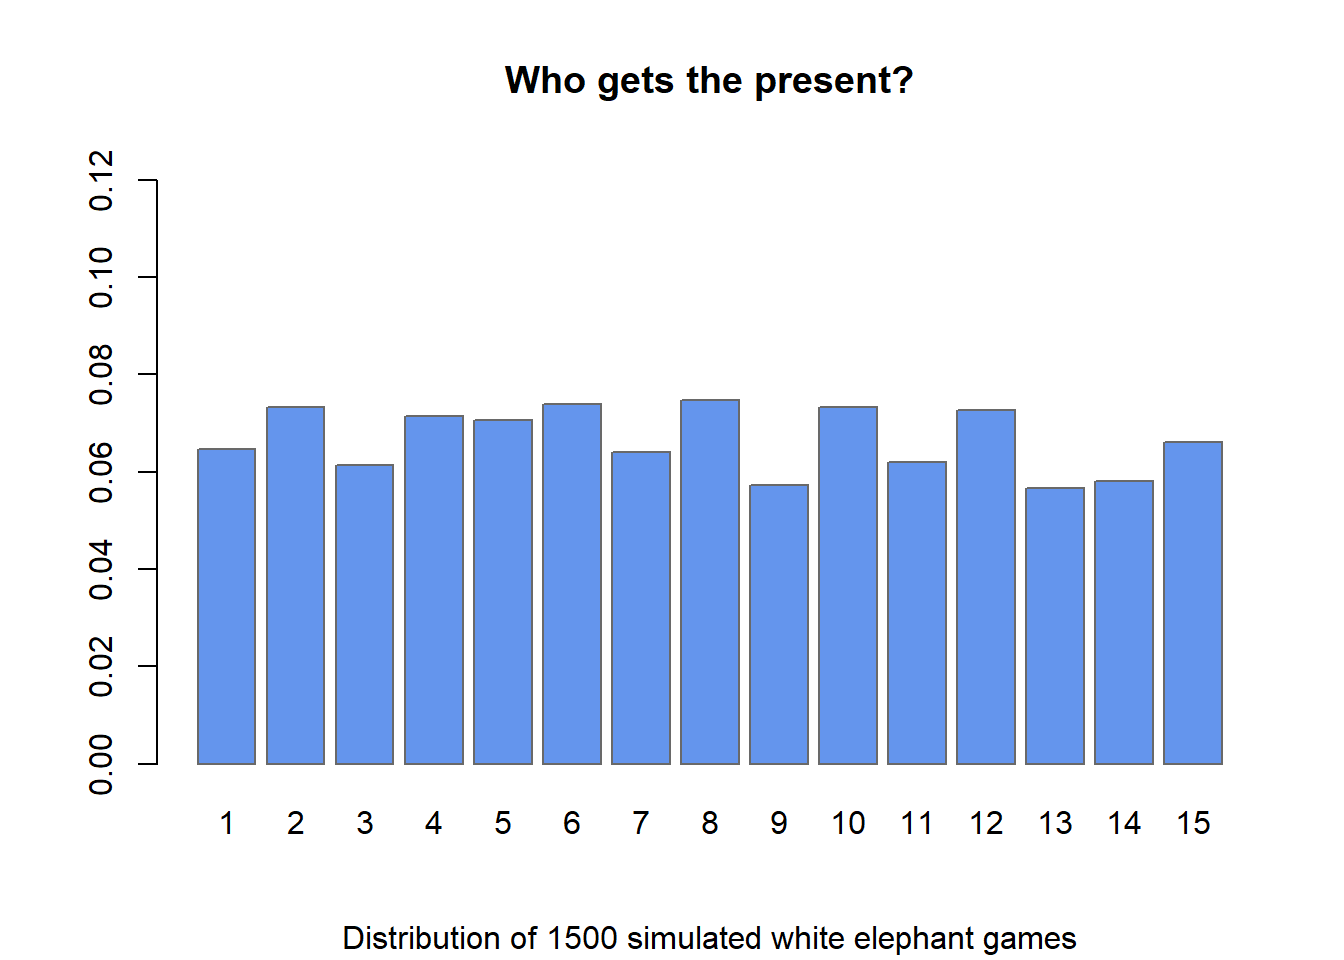
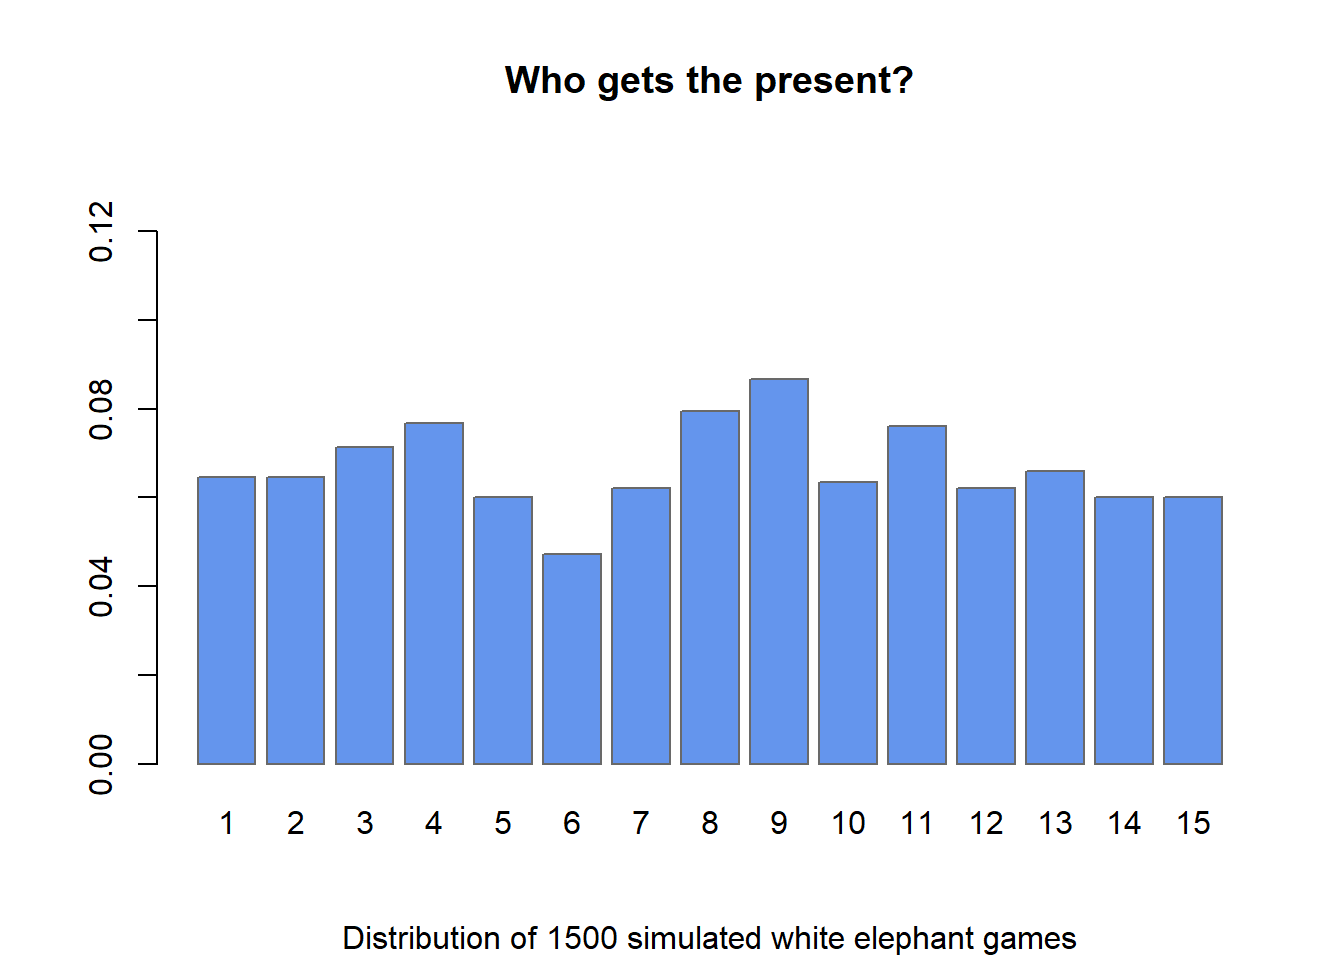
update spelling mistakes in partyGames

diff --git a/docs/projects/partyGames.html b/docs/projects/partyGames.html
@@ -214,12 +214,12 @@ pre > code.sourceCode > span > a:first-child::before { text-decoration: underlin
 <pre><code>$winner
 winner
   1   2   3   4   5   6   7   8   9  10  11  12  13  14  15 
- 97 110  92 107 106 111  96 112  86 110  93 109  85  87  99 
+ 97  97 107 115  90  71  93 119 130  95 114  93  99  90  90 
 
 $moves
 moves
   -6   -5   -4   -3   -2   -1    1    2    3    4    5    6 
-1886 1773 1818 1913 1893 1906 1898 1863 1855 1873 1911 1911 
+1891 1876 1881 1849 1929 1813 1849 1958 1862 1888 1886 1818 
 
 attr(,"class")
 [1] "elphSum" "list"   </code></pre>
@@ -248,44 +248,44 @@ attr(,"class")
 <span id="cb7-3"><a href="#cb7-3" aria-hidden="true" tabindex="-1"></a>monopolyGame</span></code><button title="Copy to Clipboard" class="code-copy-button"><i class="bi"></i></button></pre></div>
 <div class="cell-output cell-output-stdout">
 <pre><code>[[1]]
- [1] 14 20 12 10 16 13 10 10 19 17 17 15 17 18 10 15 13  8 22 13 15 17 18 15 22
-[26] 14 11 13 18 11 14 17 10 19 17 15 22  8 10 13
+ [1] 16  7 18 15 13 13 14 10 16 18 16 17 15 17 15 13 11 19 12 13 22 16 17 21 18
+[26] 13 12 13 14 13 18 12 11 17 14 21 10  6 21 10
 
 [[2]]
- [1] 13 10 13 17 13 16 16 15 13 23 16 13 14  8 17 14 21 15 13 12 17 22 12 12 12
-[26] 15 20 17 16 14 14 15 11 12 21 15 18 13 13 16
+ [1]  6 11 18 10 18 11 17 15 10 19 23 13 12 16 12 20 15 13 10 20 14 19 15 14 14
+[26] 14 10 14 15 18 18 12 11 17 20 14 13 12  9 18
 
 [[3]]
- [1]  9 12 24 13 12 14 12 17 11 14 26  9 15  9 15 18 11 13 16 17 18 21 13 13 16
-[26]  9 15 22 17 12 11 18 13 18 16 13 16 20 10 13
+ [1] 10 17 14 17 17 13 13  8 14 21 27 14 11 17 17 13 13 19 14 13 15 21 15 15 22
+[26] 10 14 12 20  9 13 14 12 18 16 18  8 13 13 13
 
 [[4]]
- [1] 12  9 18 21 17 14 12 13 18 12 20 17 11 15 13 13 19 12 15 19 15  7 14 13 13
-[26] 21 21 13 13  8 17 17 12 16 16 15 12 14 14 22
+ [1] 16 18 16 12 10 14 11 16 21 15 19  9 17 11 13 13 20 21  9 16 13 19  8 14 23
+[26] 17 12 12 16 13 16 10 15 15 11 15 20 15 19  6
 
 [[5]]
- [1] 13  5 13 17 11 18 16  8 13 18 27  8 15 14 19 21 16 20 18 15 16 13 17 16 16
-[26] 10 20 10 13 17 18 12 13  9 12 21 15 15  9 17
+ [1] 14 16 10 18 11 12 18 18 14 10 23  8 22 12 10 14 13 16 16 18 13 12 11 19 19
+[26] 15 13 12 16 13 17 12 13 19 11 11  8 21 17 17
 
 [[6]]
- [1] 12 10 16 18 12 16 15 13 18  9 21 21 17 15 19 15 12 13 22 17 15 15 19  8 16
-[26]  8 14 14 18 14  9 13 10 19 13 12 13 19 14  9
+ [1] 10 15 13 10 14 13 16 10 17 20 24 14 12 15 16 13  8 12 19 15 22 13 14 16 16
+[26] 19 11 10 12 15 15 26 12 14 15  9 13 22 19 15
 
 [[7]]
- [1] 14  6 19 22 16  9 13  7 18 13 29 12 13 16 16 12 14 16 19 16 15 16 11 11 17
-[26] 19 14 14 18 16 13 17  7 17 18  8 23  8 14 12
+ [1] 19  4 14  7 20 16 17 13 15 11 19 20 13 10 16 20 13 11 12 20 21 20 13  7 15
+[26] 13 16 19 12 14 16 13 15 15 14 14 10 13 19 17
 
 [[8]]
- [1] 12 19 11 20 12 12 13 21 12 17 22  8 14 14 17 10 14 20  9 13 19 18 14 11 15
-[26] 18 12 16 11 11 14 16 18 13 12 18 15 11 15 16
+ [1] 12 11 10 12 11 12 18 15  9 22 26 11 12 18 12 12 16 15 12 16 13 21  6 13 12
+[26] 14 17 16 17  9 20  8 14 16 23 13 11  9 18 17
 
 [[9]]
- [1] 12 10 10  7 16 10 15 16 11 13 22 14 11 17 14 20 12 20  9 19 14 12 24 16 16
-[26] 12 14 16  9  6 22 18 14 20 10 12 12 14 19 16
+ [1] 12 12 11 17 18 13 12  7 16 14 19 14 17 13 16 14 10 21 18 15 20 15 12 18 16
+[26] 14 14 16  9 18 11 18 16 15 10 17 10 19 12 18
 
 [[10]]
- [1] 14 17 13 16 11 12 18 14  7 14 20 17 20 23  8 16 10 14 10 16 18 14 17 18 19
-[26] 12 10 14 18 20 16 12 15  6 21 13 16 13  9 11
+ [1] 13 21 14 15 16 12  8 19 16 14 18 24 15 16 19  9 12  9 17 19 12 20 12 13 12
+[26] 12 15 11 15 20 13 14 19 13 12 12 14 11 15 12
 
 attr(,"class")
 [1] "monopoly" "list"    </code></pre>
@@ -293,9 +293,9 @@ attr(,"class")
 <div class="sourceCode cell-code" id="cb9"><pre class="sourceCode r code-with-copy"><code class="sourceCode r"><span id="cb9-1"><a href="#cb9-1" aria-hidden="true" tabindex="-1"></a><span class="fu">summary.monopoly</span>(monopolyGame)</span></code><button title="Copy to Clipboard" class="code-copy-button"><i class="bi"></i></button></pre></div>
 <div class="cell-output cell-output-stdout">
 <pre><code>  1   2   3   4   5   6   7   8   9  10  11  12  13  14  15  16  17  18  19  20 
-125 118 149 161 136 134 140 134 140 150 220 134 147 149 148 154 142 151 153 157 
+128 132 138 133 148 129 144 131 148 164 214 144 146 145 146 141 131 156 139 165 
  21  22  23  24  25  26  27  28  29  30  31  32  33  34  35  36  37  38  39  40 
-162 155 159 133 162 138 151 149 151 129 148 155 123 149 156 142 162 135 127 145 
+165 176 123 150 167 141 134 135 146 142 157 139 138 159 146 144 117 141 162 143 
 attr(,"class")
 [1] "monoSum" "numeric"</code></pre>
 </div>
@@ -319,9 +319,9 @@ attr(,"class")
 <span id="cb12-7"><a href="#cb12-7" aria-hidden="true" tabindex="-1"></a><span class="fu">summary.monopoly</span>(monoParallel)</span></code><button title="Copy to Clipboard" class="code-copy-button"><i class="bi"></i></button></pre></div>
 <div class="cell-output cell-output-stdout">
 <pre><code>  1   2   3   4   5   6   7   8   9  10  11  12  13  14  15  16  17  18  19  20 
-290 281 246 265 280 274 283 307 337 278 410 273 277 272 295 302 291 317 316 308 
+258 252 271 280 281 296 301 267 310 282 439 283 296 278 270 322 309 304 310 296 
  21  22  23  24  25  26  27  28  29  30  31  32  33  34  35  36  37  38  39  40 
-279 301 314 329 276 258 308 301 285 277 301 313 266 291 276 284 297 296 271 282 
+327 335 317 282 286 294 271 279 280 280 285 288 266 313 289 308 257 299 264 301 
 attr(,"class")
 [1] "monoSum" "numeric"</code></pre>
 </div>

diff --git a/docs/index.html b/docs/index.html
@@ -223,7 +223,7 @@ window.Quarto = {
 <a href="./main_presentation.html" class="title listing-title">Presentations</a>
 </td>
 </tr>
-<tr data-index="2" data-listing-date-sort="1740985200000" data-listing-file-modified-sort="1740681088772" data-listing-date-modified-sort="NaN" data-listing-reading-time-sort="1" data-listing-word-count-sort="10" data-listing-title-sort="Projects" data-listing-filename-sort="main_projects.qmd">
+<tr data-index="2" data-listing-date-sort="1741071600000" data-listing-file-modified-sort="1740681088772" data-listing-date-modified-sort="NaN" data-listing-reading-time-sort="1" data-listing-word-count-sort="10" data-listing-title-sort="Projects" data-listing-filename-sort="main_projects.qmd">
 <td>
 <a href="./main_projects.html" class="title listing-title">Projects</a>
 </td>

diff --git a/docs/main_projects.html b/docs/main_projects.html
@@ -6,7 +6,7 @@
 
 <meta name="viewport" content="width=device-width, initial-scale=1.0, user-scalable=yes">
 
-<meta name="dcterms.date" content="2025-03-03">
+<meta name="dcterms.date" content="2025-03-04">
 
 <title>Projects – Kline DuBose</title>
 <style>
@@ -191,7 +191,7 @@ window.Quarto = {
     <div>
     <div class="quarto-title-meta-heading">Published</div>
     <div class="quarto-title-meta-contents">
-      <p class="date">March 3, 2025</p>
+      <p class="date">March 4, 2025</p>
     </div>
   </div>
   
